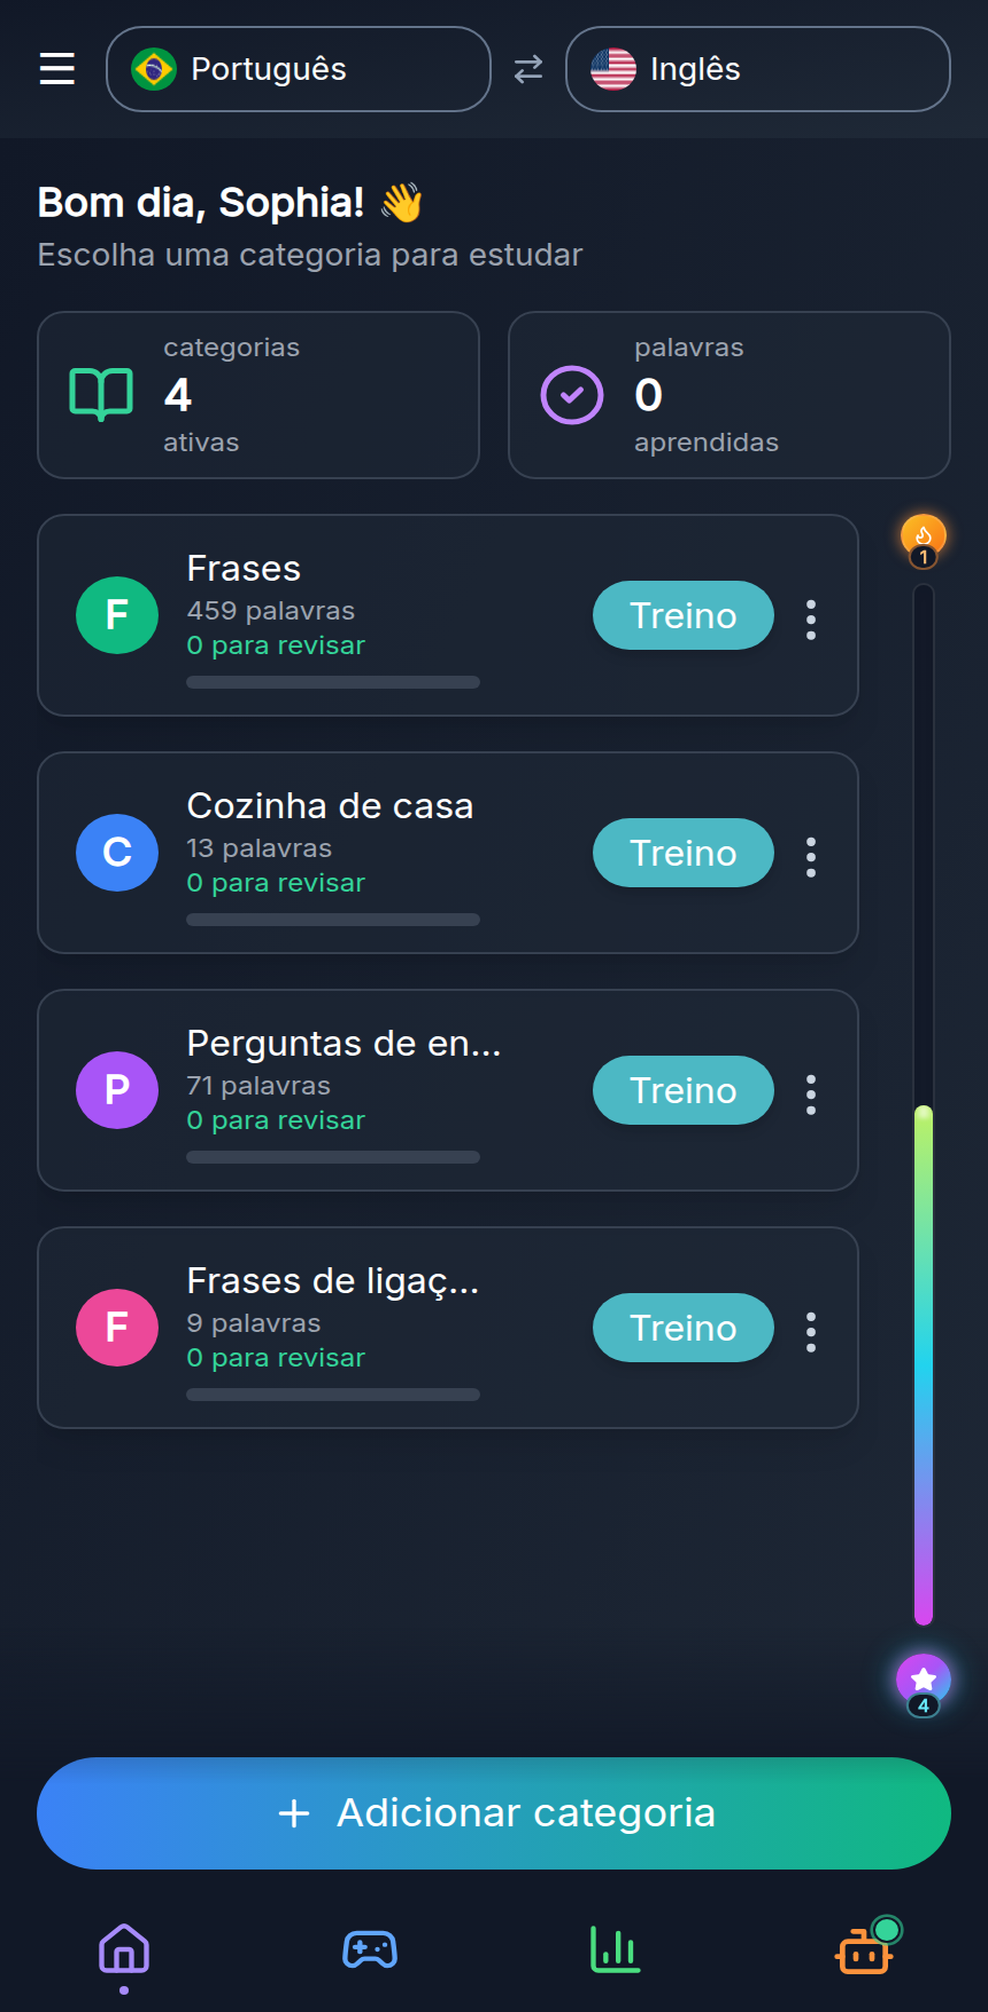
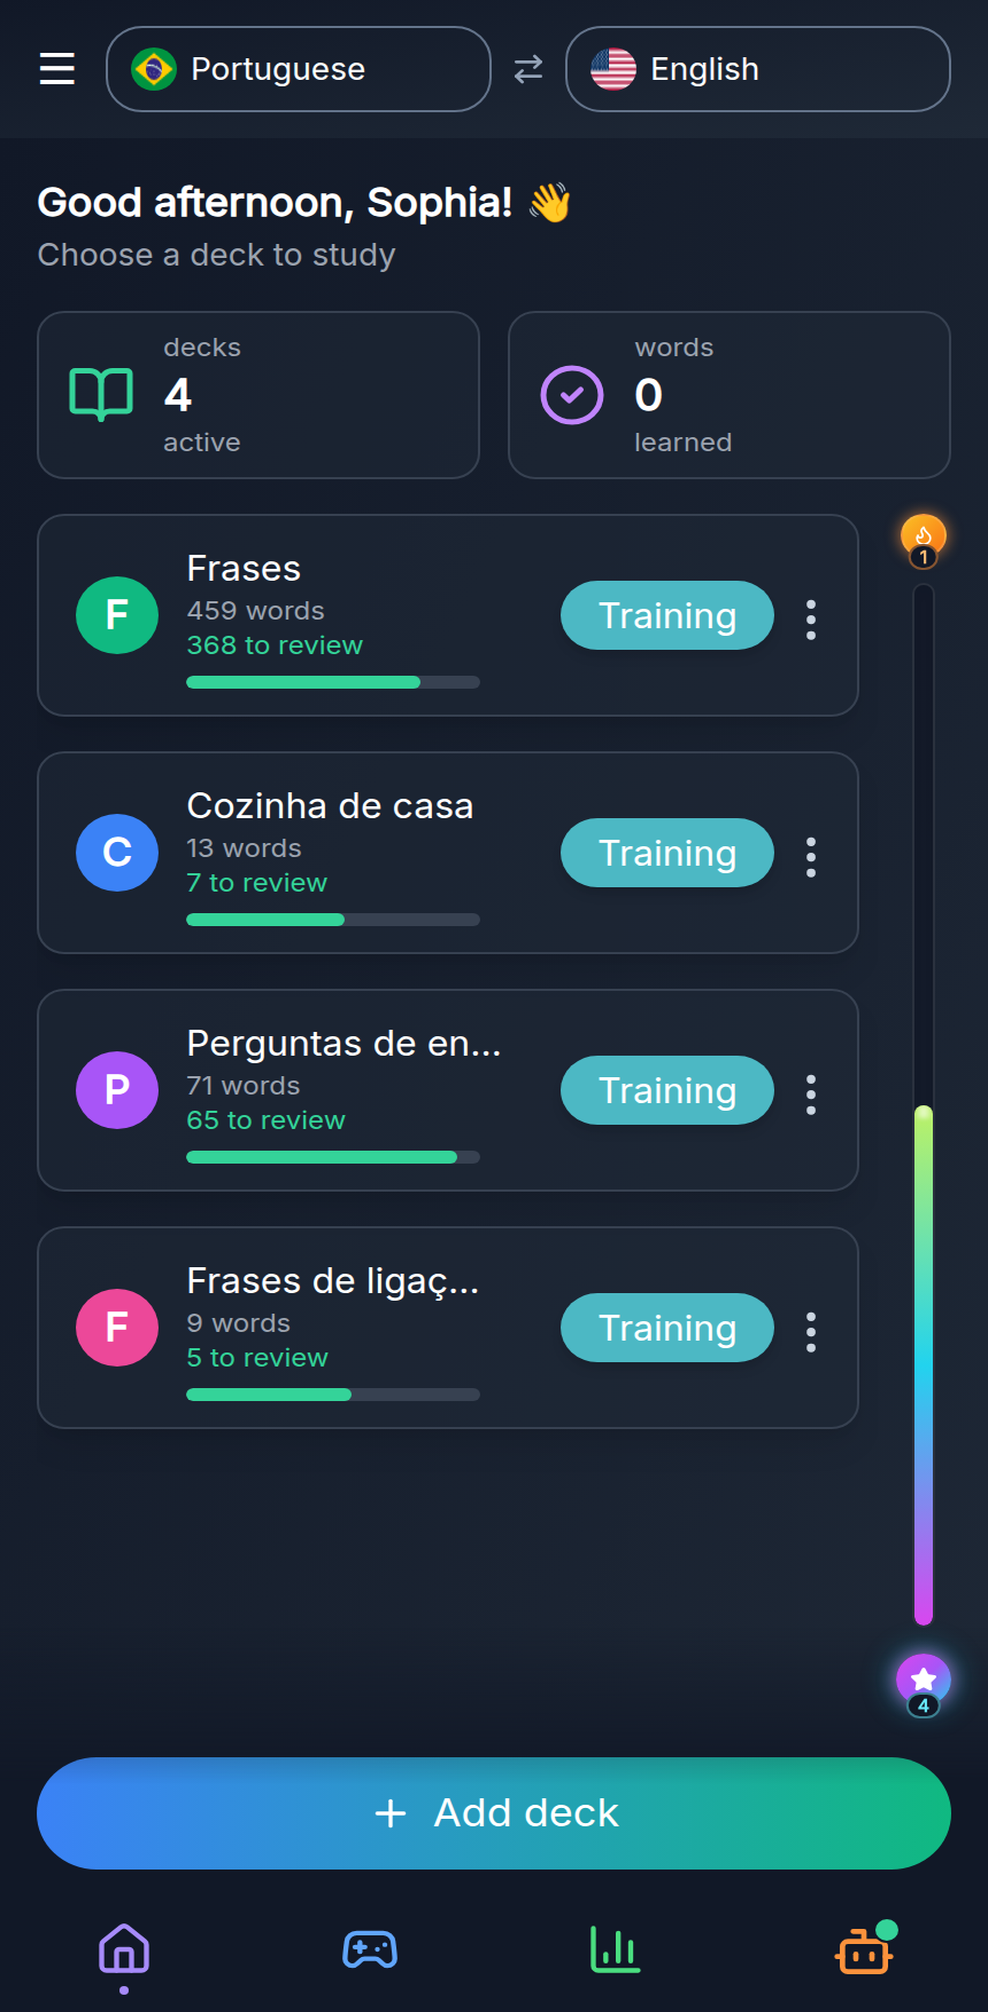
Site: screenshots do carrossel em inglês e adiciona o jogo da nave (Tiro Certeiro)
Recapturadas as 4 telas com a UI do app em inglês (i18nextLng=en), já
que um visitante dos EUA veria a interface nesse idioma, não português.
Adicionada uma 5ª tela: Tiro Certeiro ("Sure Shot" - o jogo da nave),
mostrando a nave e as palavras caindo. Testado o carrossel completo (5
pontos, sem corte em nenhum slide) antes de subir.

diff --git a/src/pages/LandingPage.jsx b/src/pages/LandingPage.jsx
@@ -18,11 +18,12 @@ import imgSlideCategorias from "../assets/img/landing-screenshot-categorias.png"
 import imgSlideDigitar from "../assets/img/landing-screenshot-digitar.png";
 import imgSlideCorreto from "../assets/img/landing-screenshot-correto.png";
 import imgSlideChuva from "../assets/img/landing-screenshot-chuva.png";
+import imgSlideTiro from "../assets/img/landing-screenshot-tiro.png";
 import imgGooglePlayBadge from "../assets/img/google-play-badge.png";
 
 const iconesRecursos = [Languages, Layers, RotateCcw, Volume2, BarChart3, Bot];
 
-const slidesApp = [imgSlideCategorias, imgSlideDigitar, imgSlideCorreto, imgSlideChuva];
+const slidesApp = [imgSlideCategorias, imgSlideDigitar, imgSlideCorreto, imgSlideChuva, imgSlideTiro];
 
 const PLAY_STORE_URL = "https://play.google.com/store/apps/details?id=com.zaldemy.app&pcampaignid=web_share";
 
